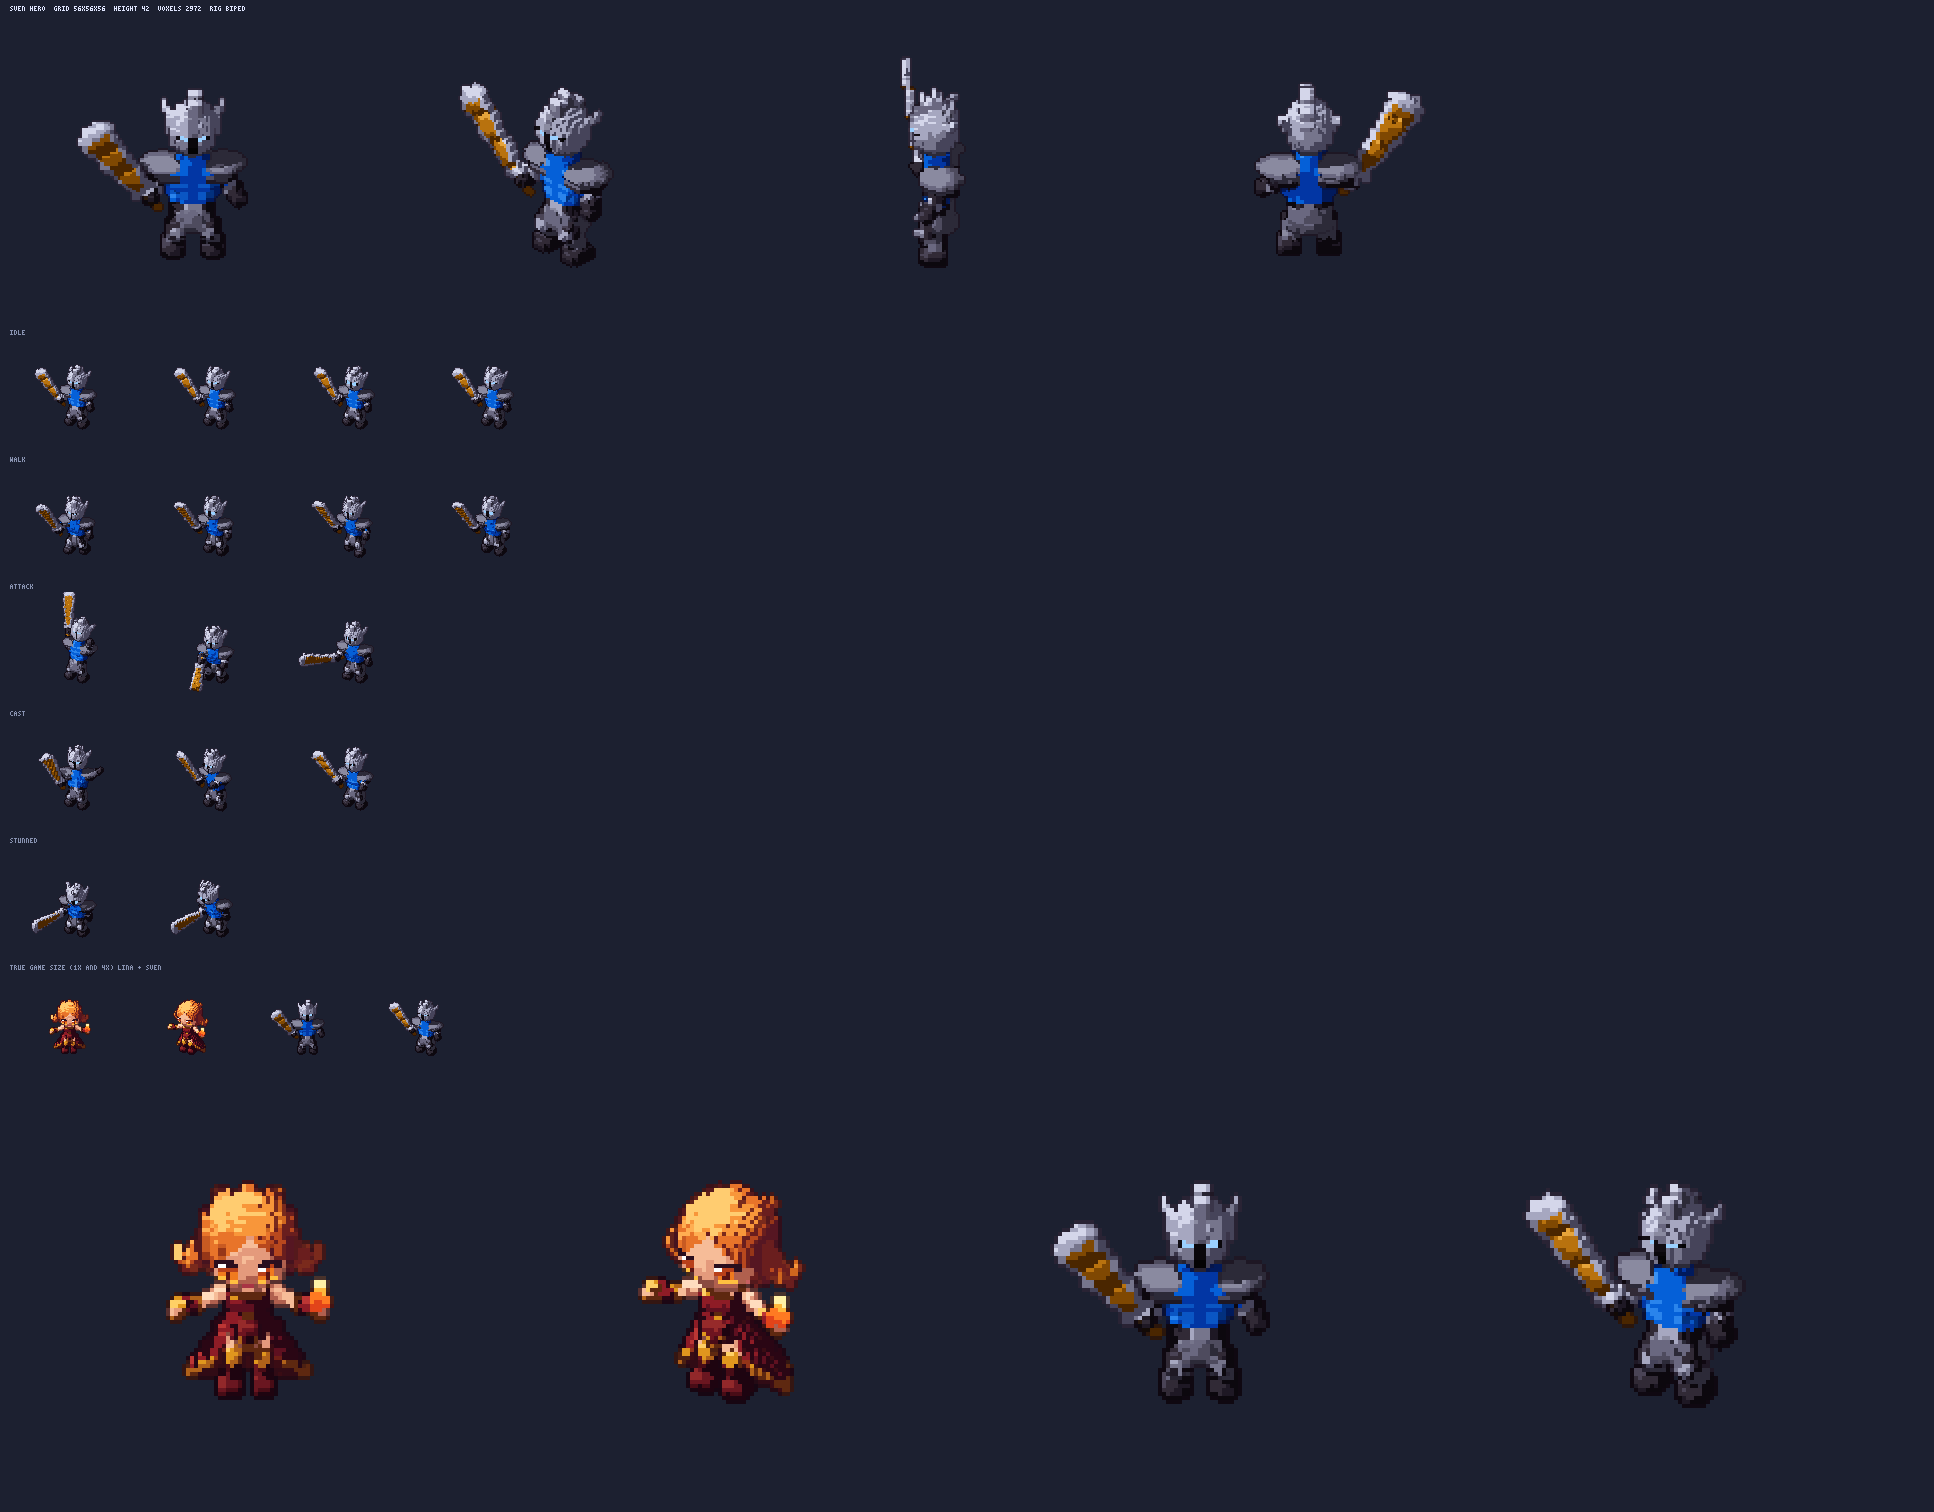
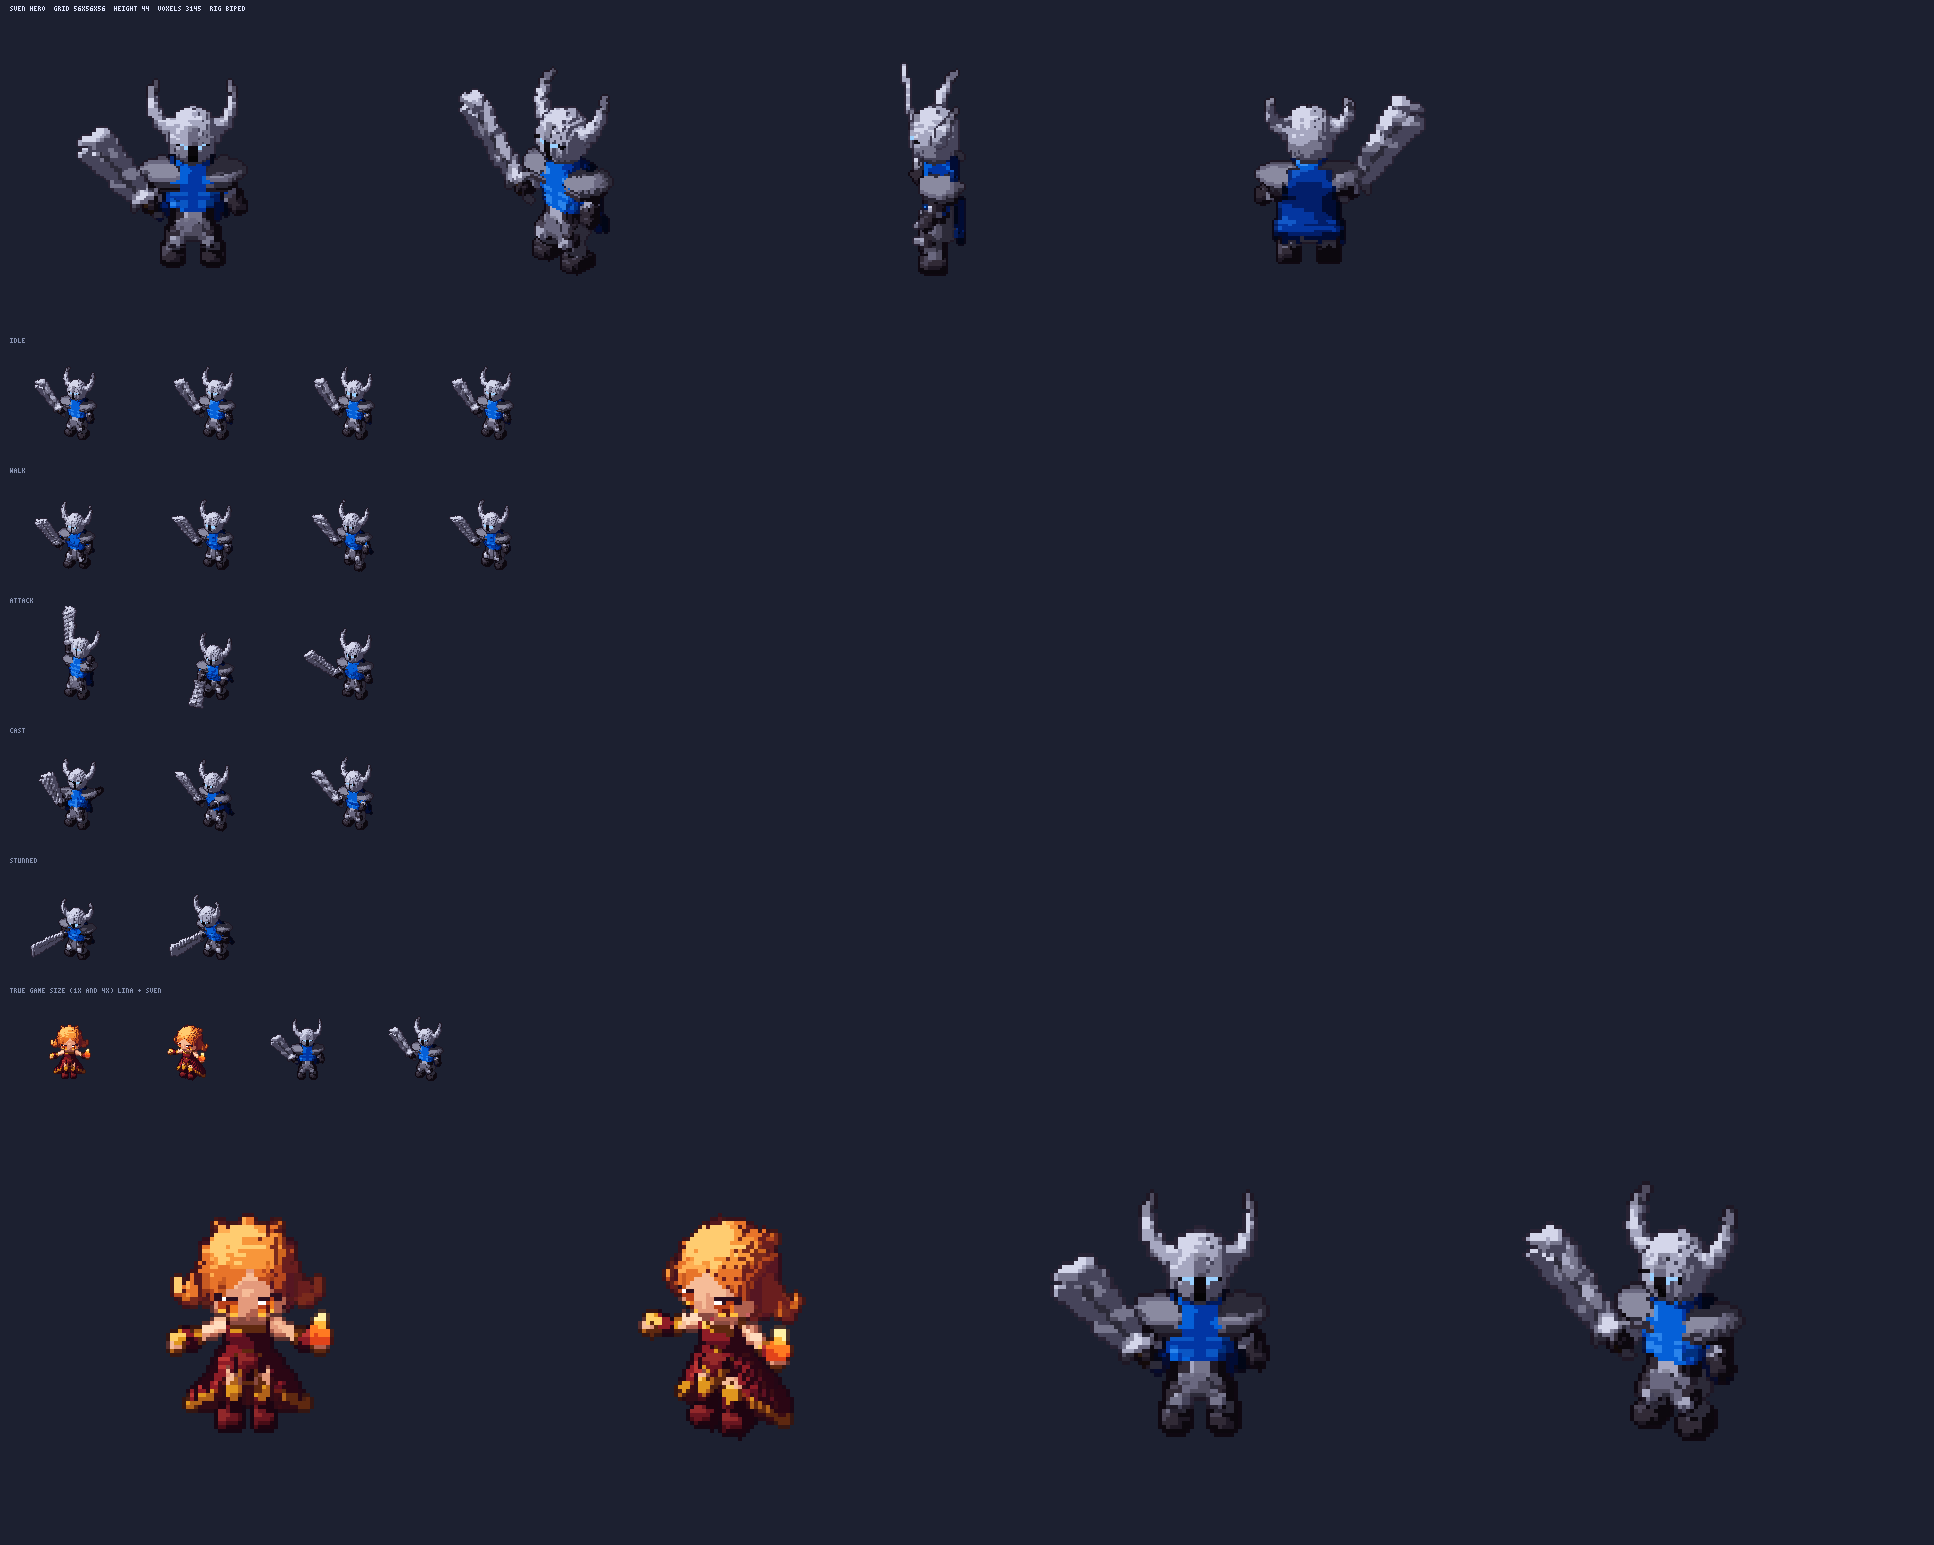
Sven review fixes: flat steel Outcast Blade with dark grip, full helm with two big curved horns, blue cape on the back

diff --git a/shared/vox/heroes/sven.js b/shared/vox/heroes/sven.js
@@ -1,9 +1,8 @@
-// Voxel Sven, a chibi of his Dota 2 model (hand-authored): a silver full helm with a dark visor slit, a row of curved fins up the crest and two
-// horns sweeping back from the sides; a bare, broad blue torso and upper arms (lighter blue muscle bands); huge layered silver pauldrons;
-// dark gauntlets with silver cuffs; a dark belt with a silver plate, silver tassets, dark armoured legs with silver knee plates and greaves;
-// the Outcast Blade: a giant cleaver-like greatsword, gold channel in a silver rim, widening to a flared tip, held low in the right hand and
-// swept up and out to his right. Signature reads: blue torso between big silver pauldrons, finned silver helm, oversized gold-and-silver
-// greatsword. Grid 56 x 56 x 56 (room for the blade in every pose), ~44 voxels tall, faces -y.
+// Voxel Sven, a chibi of his Dota 2 model (hand-authored): a silver full helm with a dark visor slit and two big curved horns; a bare, broad
+// blue torso and upper arms (lighter blue muscle bands), a deep blue cape down the back; huge layered silver pauldrons; dark gauntlets with
+// silver cuffs; a dark belt with a silver plate, silver tassets, dark armoured legs with silver knee plates and greaves; the Outcast Blade: a
+// wide, flat steel greatsword with a dark grip, widening to a squared, hooked tip, held low in the right hand and swept up and out to his
+// right. Signature reads: blue torso between big silver pauldrons, horned silver helm, oversized flat steel greatsword. Grid 56 x 56 x 56 (room for the blade in every pose), ~44 voxels tall, faces -y.
 import { Vox } from '../vox.js';
 import { useMat } from '../mats.js';
 import { solve, add3, mul3, norm3, cross3, dot3, sub3, apM } from '../rig.js';
@@ -32,6 +31,8 @@ export function build(p = {}) {
     visor: useMat(v, 'visor', { ramp: ['#040304', '#0a070b', '#120e14', '#1c161e'] }),
     eye: useMat(v, 'eye', { emit: '#9ad0ff', tier: 'eye', gain: 0.6 }),
     gold: useMat(v, 'gold', { ramp: ['#4a2600', '#7f4802', '#b8720e', '#e6a43a'] }),
+    cape: useMat(v, 'cape', { ramp: ['#010c34', '#021e6a', '#0436a0', '#1258c8'] }),
+    capeD: useMat(v, 'capeD', { ramp: ['#010616', '#02103c', '#041c5a', '#0a2c7a'] }),
     grip: useMat(v, 'grip', { ramp: ['#120a06', '#2a1a0e', '#402a18', '#5a3e26'] }),
   };
 
@@ -72,6 +73,14 @@ export function build(p = {}) {
     pauldron(v, [sh[0] + s * 0.2, sh[1] + 0.2, sh[2]], [5, 4.8, 3.8], (px, py, pz) => (Math.abs(px - sh[0] - s * 1.8) < 0.5 && pz > sh[2] + 1.8 ? M.steelD : M.steel), M.steelD, 0.8);
   }
 
+  // ---- cape: deep blue cloth hung from under the pauldrons down the back, widening, a ragged hem and a dark lining edge
+  vol(v, T.torso, cx - 9, cy + 2, 6, cx + 9, cy + 7, 24, (px, py, pz) => {
+    const dx = px - cx, w = 5.2 + (24 - pz) * 0.2, back = cy + 3.4 + (24 - pz) * 0.08; if (Math.abs(dx) > w) return;
+    if (py < back || py > back + 1.1) return;
+    if (pz < 7.4 + Math.abs(((dx + 9) % 2.6) - 1.3) * 1.4) return;
+    return Math.abs(dx) > w - 0.8 ? M.capeD : M.cape;
+  });
+
   // ---- helm (head space): silver full helm, dark T visor, a row of curved fins up the crest, two horns sweeping back
   const Th = T.head, [hx, hy, hz] = [cx, cy + PROP.headY, PROP.headZ];
   ell(v, Th, [hx, hy, hz], [5.6, 5.6, 6.4], (px, py, pz) => {
@@ -84,26 +93,26 @@ export function build(p = {}) {
     if (zz < -4.6) return M.steelD;                                                                                      // chin rim
     return M.steel;
   });
-  // crest: a solid fin ridge front-to-back, its top cut into three back-swept spikes
-  vol(v, Th, hx - 1, hy - 4, hz + 2, hx + 1, hy + 7, hz + 11, (px, py, pz) => {
-    const u = py - (hy - 3.6); if (u < 0 || u > 10) return;
-    const surf = hz + 6.4 * Math.sqrt(Math.max(0, 1 - ((py - hy) / 5.6) ** 2)), saw = 3.4 - (u % 3.4), top = surf + 0.6 + saw * 0.9 - u * 0.12;
-    if (pz > top || pz < surf - 1) return;
-    return pz > top - 1 ? M.steel : M.steelD;
-  });
-  for (const s of [-1, 1]) cap(v, Th, [hx + s * 4.8, hy + 0.4, hz + 1.4], [hx + s * 6.6, hy + 4.6, hz + 4.6], 1.3, M.steel, 0.6);   // side horns
+  // two big curved horns from the helm sides: out, then up and back, tapering to a point
+  for (const s of [-1, 1]) {
+    const pts = [[hx + s * 4.6, hy + 0.4, hz + 1.6], [hx + s * 7.4, hy + 0.8, hz + 3], [hx + s * 9, hy + 1.8, hz + 6], [hx + s * 9.2, hy + 3.4, hz + 9.4], [hx + s * 8.4, hy + 5, hz + 11.6]];
+    const rr = [1.6, 1.35, 1.05, 0.75, 0.4];
+    for (let i = 0; i + 1 < pts.length; i++) cap(v, Th, pts[i], pts[i + 1], rr[i], i > 2 ? M.steelD : M.steel, rr[i + 1]);
+  }
 
   // ---- the Outcast Blade in the right hand: grip + pommel, broad crossguard, gold channel in a silver rim, flared cleaver tip
   // flat of the blade faces the body's front (it reads broad from the camera, as in the game), width across it
   const h = J.handR, d = gripDir(rig, 'R', p.bladeR ?? BLADE), fwd = apM(T.torso && T.torso.R, [0, -1, 0]), cr = cross3(d, fwd);
   const side = Math.hypot(...cr) > 1e-3 ? norm3(cr) : apM(T.torso && T.torso.R, [1, 0, 0]);
   v.capsule(add3(h, mul3(d, -2.6)), add3(h, mul3(d, 1.2)), 0.7, M.grip);
-  v.ellipsoid(...add3(h, mul3(d, -3)), 1, 1, 1, M.gold);
-  obox(v, add3(h, mul3(d, 1.4)), add3(h, mul3(d, 2.6)), side, 3, 1, M.steel);
-  const L = 22, b0 = add3(h, mul3(d, 2.6)), wAt = t => (t < 0.74 ? 2.1 + t * 2.4 : t < 0.88 ? 3.9 : 3.9 * (1 - (t - 0.88) / 0.12) + 0.9);
-  obox(v, b0, add3(b0, mul3(d, L)), side, wAt, 0.9, (px, py, pz, t) => {
-    const off = Math.abs(dot3(sub3([px, py, pz], b0), side));
-    return t > 0.04 && t < 0.84 && off < wAt(t) - 0.95 ? M.gold : M.steel;
+  v.ellipsoid(...add3(h, mul3(d, -3)), 1, 1, 1, M.steelD);
+  obox(v, add3(h, mul3(d, 1.4)), add3(h, mul3(d, 2.6)), side, 3.4, 1, M.steelD);
+  // wide flat steel blade (one voxel thick), squared flared tip with a hooked corner, a dark fuller line down the middle
+  const L = 22, b0 = add3(h, mul3(d, 2.6)), wAt = t => (t < 0.8 ? 2.6 + t * 2.4 : 4.5);
+  obox(v, b0, add3(b0, mul3(d, L)), side, wAt, 0.5, (px, py, pz, t) => {
+    const off = dot3(sub3([px, py, pz], b0), side);
+    if (t > 0.9 && off < -1 - (t - 0.9) * 30) return;                                     // hooked tip: cut one corner back
+    return t > 0.06 && t < 0.8 && Math.abs(off) < 0.6 ? M.steelD : M.steel;
   });
   return v;
 }
@@ -128,7 +137,7 @@ export const ANIMS = {
   attack: [
     { bob: -0.2, spine: [-8, -10, 0], head: [-4, 6, 0], armR: [[60, 10], [84, 20]], armL: [[40, 40], [70, 40]], bladeR: [70, -40] },
     { bob: -1.2, spine: [18, 8, 0], head: [-14, -4, 0], armR: [[-20, 80], [-30, 90]], armL: [[-30, 70], [-30, 90]], bladeR: [-40, 90], footR: [0, -1.6, 0] },
-    { bob: -0.8, spine: [8, 4, 0], head: [-6, -2, 0], armR: [[-44, 50], [-30, 70]], armL: HOLD.L, bladeR: [10, 40], footR: [0, -0.6, 0] },
+    { bob: -0.8, spine: [8, 4, 0], head: [-6, -2, 0], armR: [[-44, 50], [-30, 70]], armL: HOLD.L, bladeR: [44, 24], footR: [0, -0.6, 0] },
   ],
   cast: [
     { bob: -0.6, spine: [-4, 20, 0], head: [0, -12, 0], armR: HOLD.R, armL: [[-10, -40], [20, -20]], bladeR: [64, 30] },

diff --git a/client/src/art/portraits/sven.js b/client/src/art/portraits/sven.js
@@ -1,7 +1,7 @@
 // GENERATED by tools/vox/portrait.mjs (sven) -- do not edit by hand. Voxel HUD portrait 32x42 (= the 32x42 the HUD shows, 1 art px = 1 u), opaque.
 // Loaded by client/src/art/portraits.js, which swaps it into the sheet's 'portrait' frame unless ?vox=0.
 export default {
-  pal: { '0':'#4a2600', '1':'#02307e', '2':'#a6a7c0', '3':'#0236a4', '4':'#8b8e9b', '5':'#040304', '6':'#0c080e', '7':'#6a6880', '8':'#6e7079', '9':'#917447', '!':'#13181f', '#':'#101214', '$':'#162335', '%':'#011a5c', '&':'#292334', '(':'#46445a', ')':'#2c2a38', '*':'#19355a', '+':'#76758c', ',':'#1e1724', '-':'#d0d7dc', '/':'#4e4b5e', ':':'#373546', ';':'#0c060d', '<':'#09060b', '=':'#afb5ba', '>':'#a9bbf3', '?':'#ac9f9e', '@':'#7f808c', 'A':'#0f0811', 'B':'#022a80', 'C':'#011448', 'D':'#8d8f9d', 'E':'#022562', 'F':'#0a1034', 'G':'#466a9e', 'H':'#4f4f54', 'I':'#929599', 'J':'#727477', 'K':'#abbdf5', 'L':'#9ad0ff', 'M':'#a4b6ee', 'N':'#1e1824', 'O':'#201b29', 'P':'#505a85', 'Q':'#a6b8f1', 'R':'#afa3a1', 'S':'#8bb9e0', 'T':'#6c90af', 'U':'#bbbfce', 'V':'#a3a6b4', 'W':'#8898d1', 'X':'#1e4d8d', 'Y':'#5f9af8', 'Z':'#58575f', '[':'#0e0805', ']':'#3e3e42', '^':'#09050a', '_':'#8797d0', 'a':'#aabcf4', 'b':'#0a070b', 'c':'#414242', 'd':'#8595ce', 'e':'#8393cc', 'f':'#0560d8', 'g':'#9da0ad', 'h':'#8190bc', 'i':'#6674ab', 'j':'#45444a', 'k':'#5c5b6d', 'l':'#120a06', 'm':'#0a56c4', 'n':'#808eba', 'o':'#37537b', 'p':'#080c29', 'q':'#535e88', 'r':'#d8c18d', 's':'#221109', 't':'#0a0508', 'u':'#585b77', 'v':'#715a37', 'w':'#a8976e', 'x':'#070508', 'y':'#292834' },
+  pal: { '0':'#02307e', '1':'#a6a7c0', '2':'#4e4b5e', '3':'#0236a4', '4':'#040304', '5':'#a3a6b4', '6':'#a4b6ee', '7':'#0c080e', '8':'#afb5ba', '9':'#a9bbf3', '!':'#13181f', '#':'#101214', '$':'#162335', '%':'#292334', '&':'#46445a', '(':'#2c2a38', ')':'#011a5c', '*':'#76758c', '+':'#d0d7dc', ',':'#1e1724', '-':'#8b8e9b', '/':'#19355a', ':':'#6e7079', ';':'#09060b', '<':'#0c060d', '=':'#a6b8f1', '>':'#0f0811', '?':'#022a80', '@':'#011448', 'A':'#aabcf4', 'B':'#8d8f9d', 'C':'#6a6880', 'D':'#022562', 'E':'#373546', 'F':'#466a9e', 'G':'#4f4f54', 'H':'#929599', 'I':'#727477', 'J':'#9ad0ff', 'K':'#0a1034', 'L':'#8393cc', 'M':'#0436a0', 'N':'#505a85', 'O':'#1e4d8d', 'P':'#7f808c', 'Q':'#abbdf5', 'R':'#a8baf1', 'S':'#8bb9e0', 'T':'#041c5a', 'U':'#1e1824', 'V':'#22212c', 'W':'#6c90af', 'X':'#17121c', 'Y':'#8a9ad3', 'Z':'#8899d1', '[':'#0a0715', ']':'#0560d8', '^':'#58575f', '_':'#0e0805', 'a':'#3e3e42', 'b':'#888d91', 'c':'#0e459c', 'd':'#8999d2', 'e':'#8797cf', 'f':'#bbbfce', 'g':'#0a070b', 'h':'#414242', 'i':'#8595ce', 'j':'#0a0a22', 'k':'#4d6ec0', 'l':'#5f9af8', 'm':'#4a6bbe', 'n':'#808eba', 'o':'#6674ab', 'p':'#45444a', 'q':'#201b29', 'r':'#120a06', 's':'#6874a1', 't':'#3d3a49', 'u':'#37537b', 'v':'#080c29', 'w':'#535e88', 'x':'#66739f', 'y':'#110d15', 'z':'#080510', '{':'#2c3f6f', '|':'#585b77', '}':'#56575e', '~':'#0a3374', '¡':'#070508', '¢':'#292834', '£':'#09050a' },
   face: [4, 11, 24, 24],
   rows: [
     '###########!#!#!#!!!!!!!#!#!####',
@@ -10,41 +10,41 @@ export default {
     '####!#!#!!!!!!$!$!$!$!$!$!!!!!!#',
     '#######!#!!!!!!$!$!$!$!$!!!!!!#!',
     '######!#!!!!$!$$$$$$$$$$$!$!!!!!',
-    '#####!#!#!!!!$!$$$$$$$$$$$!$!!!!',
-    '####!#!!!!$!$$$$*$*$*$*$*$$!$!!!',
-    '#######!#!!$!$$&&&&*$*$*$$$$!!!!',
-    '##!#!#!!!!$!$$&KUV-&***$*$$$$!$!',
-    '#####!#!!!!$$$,W7UV-&***$*$$!$!!',
-    '####!!!!$!$$$$,W77@=,****$$$$!$!',
-    '#####!#!!!!$!&_77/@=,X**$$$$!$!!',
-    '##!#!#!!!!$&&>2+7/8=&*X**$*$$!$!',
-    '#####!#&&$&>222++/@4-&**$*$$!$!!',
-    '####!!&K-&&>2222+//44-&**$$$$!$!',
-    '#####!#&a22222+++/)(4-&*$$$$!!!!',
-    '##!#!#!!&>22+++++//)44-&*$$$$!$!',
-    '#####!#!&>22++++++/)(4-&$$!$!$!!',
-    '####!#!!&>+2++bLLL55Lc-&*$$!$!!!',
-    '&######!#&Q2+++++555(4-&!$!$!!!!',
-    'K&####!#!&>2(++(+555(4-&$!$!!!!!',
-    'K&#####!#&>2+++((555(4-&!$!!!!#!',
-    'R-&#!#!#!!&Q+((((55((-&!$!!!!!!#',
-    'R-&######!&M(((((55(-&!!!!!!#!#!',
-    'R4-&##!#!#!,d))))))8=,$!!!!!!#!#',
-    '?9-&#####!#!Fe)))))SF!!!!!#!#!##',
-    '?9-&####!#!FY333%%GGSF!!!!!#!#!#',
-    '?99-&,,,,,,,,Y333%%S,,,,,,,,####',
-    '?099-DD@@@@/7f33%%GG8888888=,###',
-    '?009-gDDDD7///33%%%%))/)))=,####',
-    '?0094477//////33%%%%%%)))=,#!###',
-    '?0000-))))))333%%%%%))))8=,#####',
-    '?00094(///))))%%%%%%6666HI&#####',
-    'M00000((N66666%%%%%%111%G4-A####',
-    '&M0000(((6111111%%1111%((4HIA###',
-    '&M(00(((((3%%%%%%%%%%%%((NZIAA##',
-    '#&h(((:66(B111E1%%E111TAiNjZHI;#',
-    '#OQk(:l<HJ3E1EmE%C1E1TF#APN<I;##',
-    '#On::<[<]JBBBBBCCCCCoTp##;;qJ;##',
-    '##OO&;P[rs;P3<BC(::<HJ;####;A###',
-    '######tuvw^P<<x:::y<]J^#########'
+    '#####,#!#!!!!$!$$$$$$$,$$$!$!!!!',
+    '####,Y,!!!$!$$$$/$/$/,Y,/$$!$!!!',
+    '###,Z8,!#!!$!$$$$/$/$,d8,$$$!!!!',
+    '##!,Z8%!!!$!$$/$/$////,e8,$$$!$!',
+    '####%A+%!!!$$$$/$/////%A+%$$!$!!',
+    '####%A+%$!$$$$/%%/O/O/%A+%$$$!$!',
+    '####%A5+%!!$!%%9+%%%/O%A+%$$!$!!',
+    '##!#%=5+%!$%%915555+%%9f-+%$$!$!',
+    '#####%95+%%9111**PP-+%91+%$$!$!!',
+    '####!%=5+%%91111*22--+*5+%$$$!$!',
+    '#####%=55**111***2(&--&-+%$$!!!!',
+    '##!#!%=&***1*****22(--&-+%$$$!$!',
+    '#####!%%6**1******2(--+%%$!$!$!!',
+    '%###!#!!%6*1**gJJJ44Jh+%/$$!$!!!',
+    'Q%#####!#%=1*****444&-+%!$!$!!!!',
+    'Q%####!#!%91&**&*444&-+%$!$!!!!!',
+    'R+%####!#%91***&&444&-+%!$!!!!#!',
+    'Q%##!#!#!!%=*&&&&44&&+%!$!!!!!!#',
+    'R+%######!%6&&&&&44&+%!!!!!!#!#!',
+    'R-+%##!#!#!,i((((((:8,$!!!!!!#!#',
+    '6-+%#####![jKL(((((SK!!!!!#!#!##',
+    '6--+%###![kMl333))FFSK!!!!!#!#!#',
+    '6&--+,,,,mTMM]333))S,,,,,,,,####',
+    'L&&-+BBCCTTMC]33))FF:::::::8,###',
+    'L(&--+BBBBCP2233))))((2(((8,####',
+    'L((&--CC22222233))))))(((8,#!###',
+    '6&(&&&+(((((333)))))((((:8,#####',
+    '6&((&-&222(((())))))7777GH%#####',
+    '6&(((&&&(77777))))))000)F-+>####',
+    '6&&&(&&&((000000))0000)&&-GH>###',
+    '6&&&&&((&&3))))))))))))&&U^H>>##',
+    '%%n&&(V77&?000D0))D000W>oUp^GH<#',
+    '#q=E(Vr;GI3D0D0D)@0D0WK#>NU;H<##',
+    '#XstV;_;aI?????@@@@@uWv##<<wI<##',
+    '#Xxb,<N_8ccN3;?@&EE;GI<####<>###',
+    '##yX#z{|}b~N;;¡EEE¢;aI£#########'
   ]
 };
